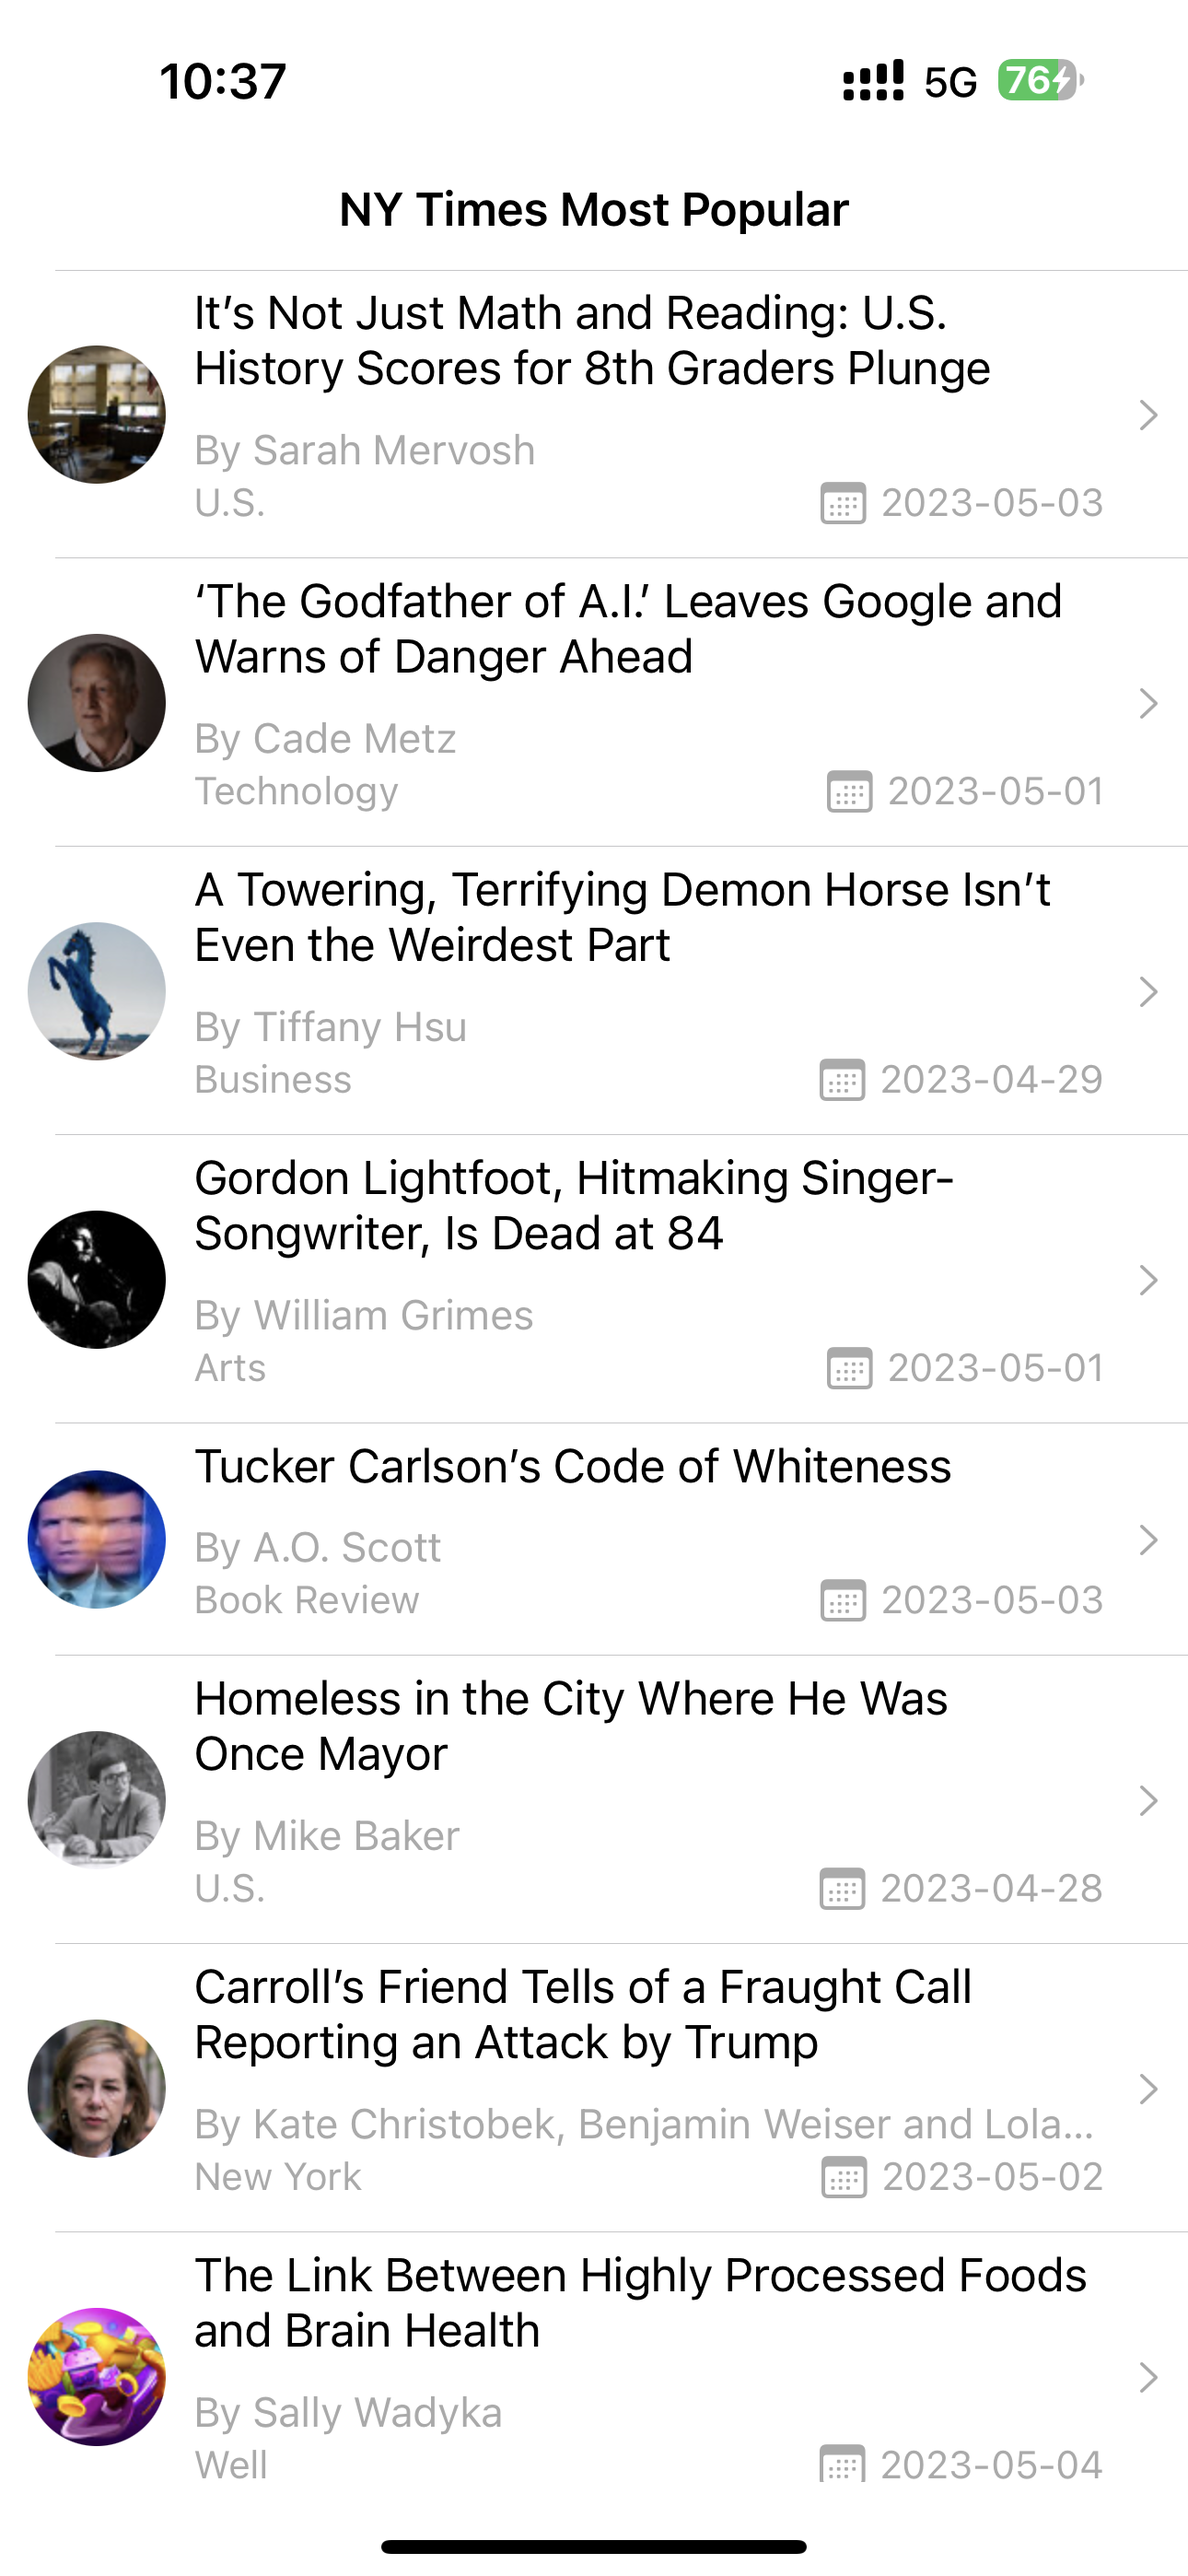
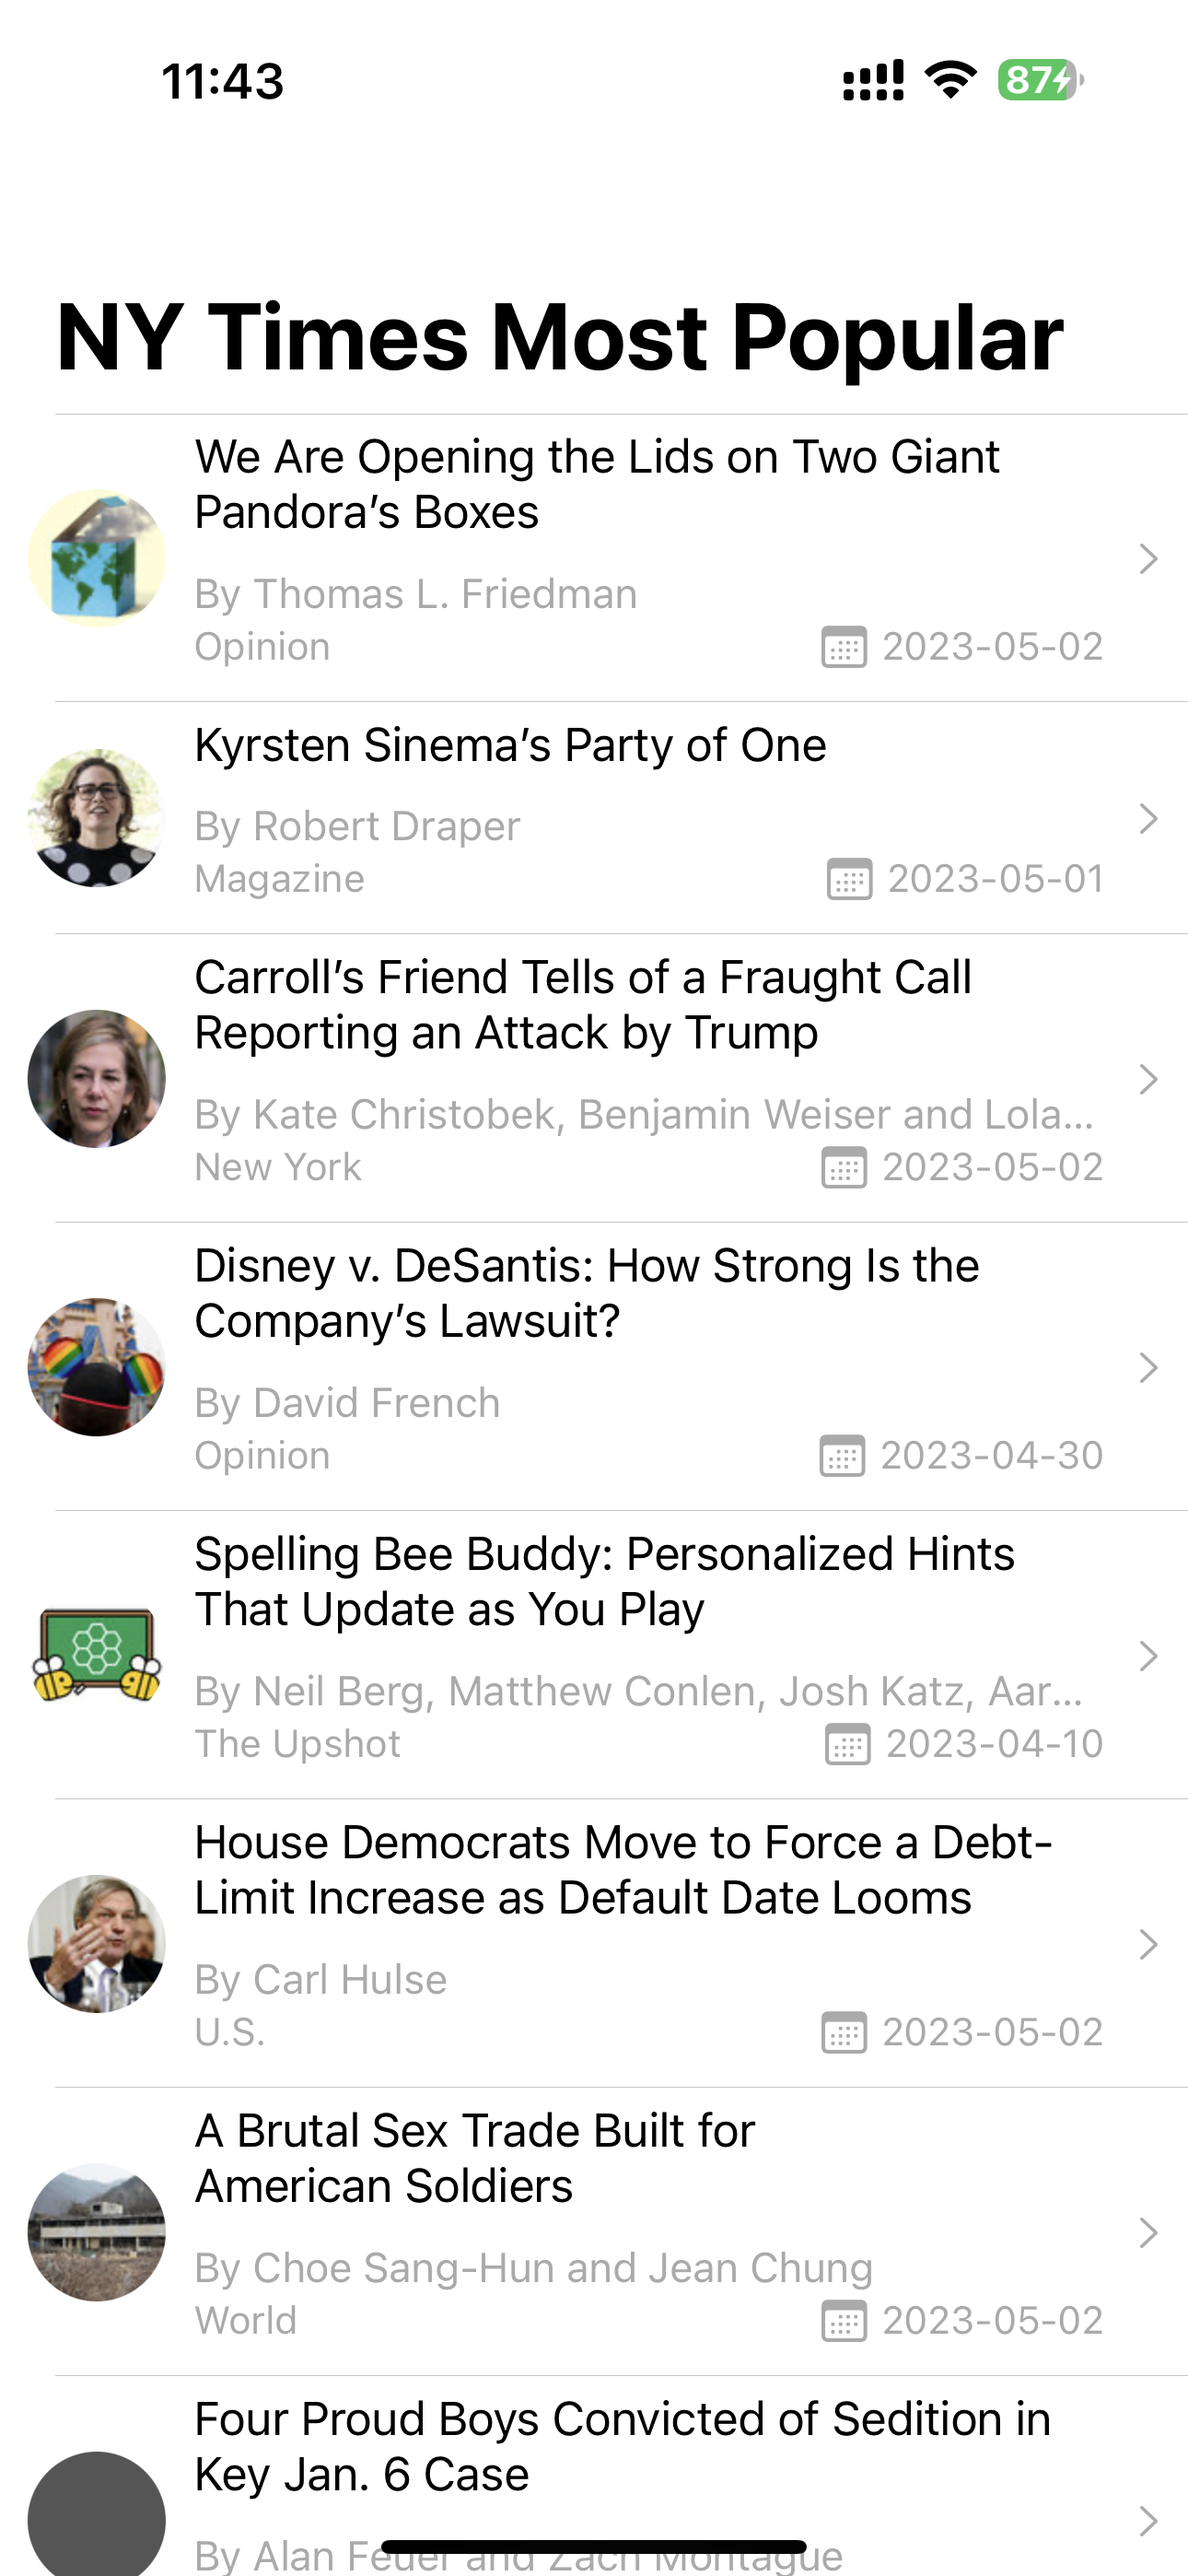
added the navigation large behaviour in the articles list also updated the screenshots

diff --git a/NYArticles/NYArticles/Feature/PopularArticles/PopularArticlesViewController.swift b/NYArticles/NYArticles/Feature/PopularArticles/PopularArticlesViewController.swift
@@ -48,6 +48,8 @@ final class PopularArticlesViewController: UIViewController {
         title = viewModel.title
         tableView.addSubview(pullToRefresh)
         pullToRefresh.addTarget(self, action: #selector(pullToRefreshAction), for: .valueChanged)
+        navigationItem.largeTitleDisplayMode = .automatic
+        navigationController?.navigationBar.prefersLargeTitles = true
     }
 
     private func binding() {

diff --git a/NYArticles/NYArticles/Feature/ArticleDetail/ArticleDetailViewController.swift b/NYArticles/NYArticles/Feature/ArticleDetail/ArticleDetailViewController.swift
@@ -34,7 +34,12 @@ final class ArticleDetailViewController: UIViewController {
 
     override func viewDidLoad() {
         super.viewDidLoad()
+        configureUI()
         binding()
+    }
+
+    private func configureUI() {
+        navigationItem.largeTitleDisplayMode = .never
     }
 
     // MARK: - Private Methods
